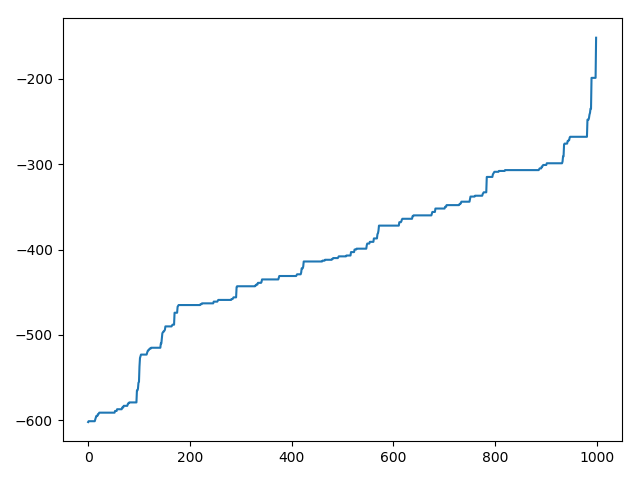
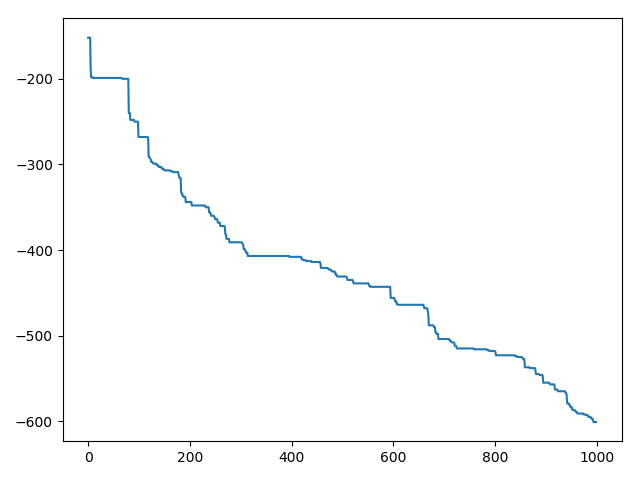
bugs fixed.

diff --git a/ga.py b/ga.py
@@ -47,12 +47,12 @@ for i in range(pop_size):
 max_results = max_results[1:]
 max_results.sort()
 min_results = min_results[1:]
-min_results.sort()
+min_results.sort(reverse=True)
 print(max_results[-1])
-print(min_results[0])
+print(min_results[-1])
 
 print("max : y = %f, x1 = %f, x2 = %f, x3 = %f" % (max_results[-1][0], max_results[-1][1], max_results[-1][2], max_results[-1][3]))
-print("min : y = %f, x1 = %f, x2 = %f, x3 = %f" % (min_results[0][0], min_results[0][1], min_results[0][2], min_results[0][3]))
+print("min : y = %f, x1 = %f, x2 = %f, x3 = %f" % (min_results[-1][0], min_results[-1][1], min_results[-1][2], min_results[-1][3]))
 
 X = []
 Y = []

diff --git a/calobjValue.py b/calobjValue.py
@@ -13,7 +13,7 @@ def decodechrom(pop, chrom_length):
     return temp
 
 
-# 最適解を計算
+# 適応度を計算
 
 
 def calobjValue(pop, chrom_length, max_value):
